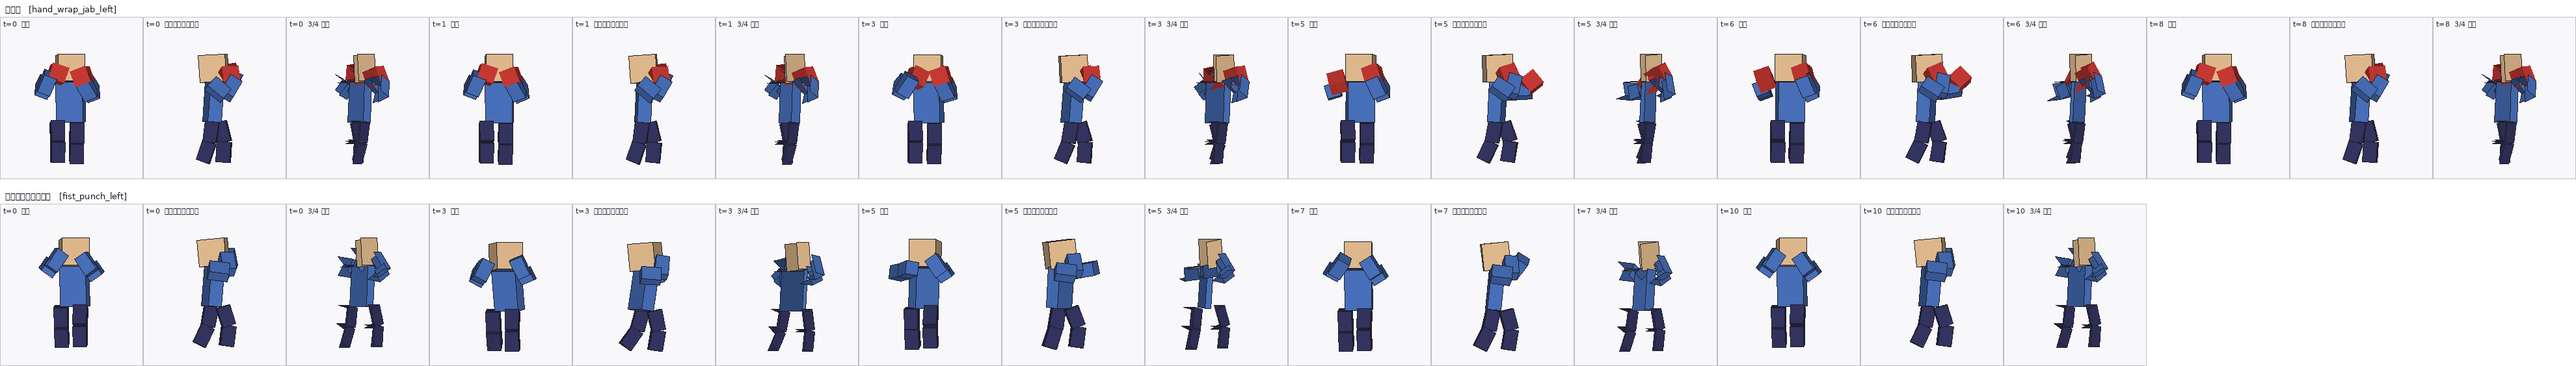
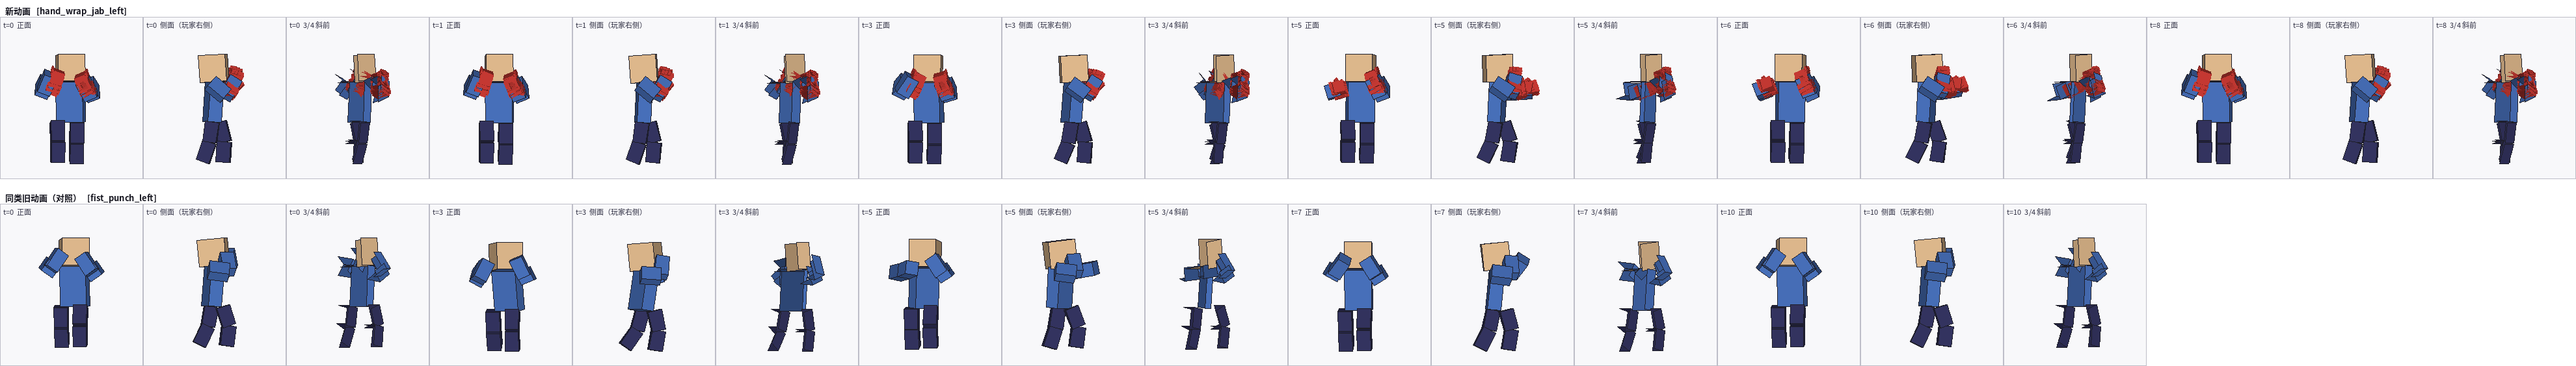
item-use-anim 第 1 批 Round 1 修订：CJK 标签、v2 手持网格、木杖双手握
- render_block_figure：标签改用 NotoSansCJK（Regular / Bold），手持物改用 v2 网格与其 display，删除立方体示意
- gen_wooden_staff_atk：左臂六个关键帧反解到杖身中段偏上（离右手约 0.375 格），关键帧上左手到杖轴距离 ≤1.5px；左臂关节顶在边界，根因在右手握杖位置，待调度决定
- 重出 batch1 接触表，重写 model-review/item-anim-batch1.md（注册表问题记一笔，引用 plan-item-model-channel-v1）
- 合入 origin/main（e6ab6ff72）带进 #2386 v2 模型

diff --git a/client/tools/render_block_figure.py b/client/tools/render_block_figure.py
@@ -59,7 +59,6 @@ CLIENT_ROOT = Path(__file__).resolve().parents[1]
 RESOURCES = CLIENT_ROOT / "src/main/resources/assets/bong"
 ANIM_DIR = RESOURCES / "player_animation"
 ITEM_MODEL_DIR = RESOURCES / "models/item"
-ASSET_CONFIG_DIR = Path(__file__).resolve().parent / "asset_configs"
 
 BLOCK_PX = 16.0
 META_KEYS = frozenset({"tick", "easing", "comment", "turn"})
@@ -142,10 +141,8 @@ class ItemModel:
     """一件手持物的模型来源与显示参数来源。"""
 
     color: Tuple[int, int, int]
-    obj: Optional[str] = None               # 相对 models/item 的 OBJ 路径
-    box_blocks: Optional[float] = None      # 没有可用网格时，用这个边长（方块）的立方体示意
-    display_json: Optional[str] = None      # 物品模型 JSON（取 display 段）
-    override_json: Optional[str] = None     # asset_configs 覆盖
+    obj: str                                # 相对 models/item 的 OBJ 路径
+    display_json: Optional[str] = None      # 物品模型 JSON（取 display 段），没有则用 HANDHELD_DEFAULT
     note: str = ""
 
 
@@ -155,18 +152,20 @@ class ItemModel:
 #   - 骨镐：注册表 pickaxe_bone.obj 只有 16 个顶点（一块薄板），pickaxe_bone_v2 才是镐形。
 # 三处不一致都写进 model-review/item-anim-batch1.md，等调度定。
 ITEMS: Dict[str, ItemModel] = {
-    # 拳套不用 hand_wrap.obj：它是双手整套护甲网格（x 跨 3.75 格、z 跨 6 格），按现有
-    # asset_configs 的 scale 0.35 仍约 2 格长，远超手掌（约 0.25 格），画出来是一团布片，
-    # 判不了握法。这里用拳头尺寸的立方体示意，握点与出拳方向才是要看的东西。
+    # 审图一律用 v2 网格与它自己的 display（与生成器读的 JSON 一致）。注册表与 v2 的不一致
+    # （兵甲手套 objPath=null、木杖 / 骨镐登记的是旧 OBJ 等）留到接线阶段，见
+    # model-review/item-anim-batch1.md「模型台问题」。
     "hand_wrap": ItemModel(
+        obj="hand_wrap_v2/hand_wrap_v2.obj",
+        display_json="hand_wrap_v2/hand_wrap_v2.json",
         color=ITEM_COLORS["cloth"],
-        box_blocks=0.3,
-        note="示意拳面 0.3 格立方体：hand_wrap.obj 按现有配置约 2 格，不可用于判握法（见文档）",
+        note="缠手 v2 网格",
     ),
     "bing_jia_shou_tao": ItemModel(
+        obj="bing_jia_shou_tao_v2/bing_jia_shou_tao_v2.obj",
+        display_json="bing_jia_shou_tao_v2/bing_jia_shou_tao_v2.json",
         color=ITEM_COLORS["iron"],
-        box_blocks=0.34,
-        note="示意铁甲拳面 0.34 格立方体（注册表 objPath=null，实际为原版皮革 2D 贴图）",
+        note="兵甲手套 v2 网格",
     ),
     "pickaxe_bone_v2": ItemModel(
         obj="pickaxe_bone_v2/pickaxe_bone_v2.obj",
@@ -321,31 +320,11 @@ def _obj_triangles(path: Path) -> np.ndarray:
     return arr
 
 
-def _box_triangles(size_blocks: float) -> np.ndarray:
-    """中心在 (0.5, 0.5, 0.5)（方块坐标）的立方体三角形，与 OBJ 的坐标约定一致。"""
-    half = size_blocks / 2
-    corners = _box_corners((0.5 - half,) * 3, (0.5 + half,) * 3)
-    tris = []
-    for face in BOX_FACES:
-        tris.append([corners[face[0]], corners[face[1]], corners[face[2]]])
-        tris.append([corners[face[0]], corners[face[2]], corners[face[3]]])
-    return np.array(tris, dtype=np.float64)
-
-
-def _item_triangles(item: ItemModel) -> np.ndarray:
-    if item.box_blocks is not None:
-        return _box_triangles(item.box_blocks)
-    return _obj_triangles(ITEM_MODEL_DIR / item.obj)
-
-
 def _display_for(item: ItemModel, hand_key: str) -> dict:
     display = {k: list(v) for k, v in HANDHELD_DEFAULT[hand_key].items()}
     if item.display_json:
         src = json.loads((ITEM_MODEL_DIR / item.display_json).read_text(encoding="utf-8"))
         display.update(src["display"][hand_key])
-    if item.override_json:
-        cfg = json.loads((ASSET_CONFIG_DIR / item.override_json).read_text(encoding="utf-8"))
-        display.update(cfg.get(hand_key, {}))
     return display
 
 
@@ -421,7 +400,7 @@ def build_scene(kfs, tick: float, holds: Sequence[Tuple[str, str]]) -> Scene:
         center, bend = elbow_bends[hand_part]
         display = _display_for(item, f"thirdperson_{'righthand' if side == 'right' else 'lefthand'}")
         rot_disp, scale, trans_px = _display_transform(display)
-        verts = _item_triangles(item)
+        verts = _obj_triangles(ITEM_MODEL_DIR / item.obj)
         flat = verts.reshape(-1, 3)
         # 手持物自己的旋转（rightItem 关键帧）插在 display 之后、手持偏移之前。
         spin_part = "rightItem" if side == "right" else "leftItem"
@@ -496,11 +475,14 @@ def render_frame(kfs, tick: float, holds, title: str, font) -> Image.Image:
     return img
 
 
-def _load_font(size: int):
-    try:
-        return ImageFont.truetype("/usr/share/fonts/truetype/dejavu/DejaVuSans.ttf", size)
-    except OSError:
-        return ImageFont.load_default()
+# 标签含中文（正面 / 侧面 / 3/4 斜前 / 新动画 / 同类旧动画），必须用带 CJK 字形的字体，
+# 否则 PIL 默认字体会把中文画成方块。
+CJK_FONT_REGULAR = "/usr/share/fonts/opentype/noto/NotoSansCJK-Regular.ttc"
+CJK_FONT_BOLD = "/usr/share/fonts/opentype/noto/NotoSansCJK-Bold.ttc"
+
+
+def _load_font(size: int, path: str = CJK_FONT_REGULAR):
+    return ImageFont.truetype(path, size)
 
 
 def render_strip(anim_id: str, holds, label: str) -> Image.Image:
@@ -512,7 +494,7 @@ def render_strip(anim_id: str, holds, label: str) -> Image.Image:
     kfs = collect_keyframes(emote)
     ticks = keyframe_ticks(kfs)
     font = _load_font(11)
-    head_font = _load_font(13)
+    head_font = _load_font(13, CJK_FONT_BOLD)
     frames = [render_frame(kfs, t, holds, f"t={t}", font) for t in ticks]
     width = sum(f.width for f in frames)
     header_h = 26

diff --git a/client/tools/gen_wooden_staff_atk.py b/client/tools/gen_wooden_staff_atk.py
@@ -8,8 +8,9 @@
 而非垂直挑刺（那会和骨剑过于相似）。
 
 设计要点：
-  - **双手持杖**：右手主力（近握把端）、左手辅助（远端导向），
-    两臂的 pitch 不同步（右高左低），读作「滑握」动作。
+  - **双手持杖**：右手在近握把端，左手贴在杖身中段偏上（离右手约 6px，即 0.375 格），
+    每个关键帧左手都由 `tools/render_block_figure.py` 的手持链路反解过：左手前臂末端中心
+    与杖身轴线的距离在关键帧上 ≤ 1.5px。左臂 pitch 不与右臂同步，读作「滑握」动作。
   - **借杖长**：身体微侧转、手臂展开幅度大，展现杖身长度带来的宽扫弧。
   - **中速**：11 tick，比兵甲重拳(13)快、比缠手拳(8/9)慢，居中定位。
   - 使用 item_spin 辅助骨：由外部调用方决定，JSON 里只驱动躯干和手臂。
@@ -32,8 +33,8 @@ _GUARD_VALS = dict(
     torso=dict(pitch=+4, yaw=-16),            # 侧身站，右肩朝前
     # 右手近握把端，高位守着（杖头在右肩上方）
     rightArm=dict(pitch=-130, yaw=+10, roll=+14, bend=56, axis=180),
-    # 左手远端导向，中位
-    leftArm=dict(pitch=-70, yaw=+16, roll=-18, bend=72, axis=180),
+    # 左手贴杖身中段偏上（见文件头「双手持杖」），由杖轴反解
+    leftArm=dict(pitch=-165.0, yaw=+55.5, roll=-80.0, bend=20.0, axis=180),
     rightLeg=dict(pitch=+8, yaw=-4, bend=12, z=+0.04),
     leftLeg=dict(pitch=-16, yaw=+5, bend=22, z=-0.10),
 )
@@ -47,7 +48,7 @@ POSE = {
         head=dict(pitch=-2, yaw=+4),
         torso=dict(pitch=+2, yaw=-28),            # 右转加深
         rightArm=dict(pitch=-152, yaw=+14, roll=+18, bend=42, axis=180),
-        leftArm=dict(pitch=-80, yaw=+18, roll=-16, bend=60, axis=180),
+        leftArm=dict(pitch=-173.4, yaw=+49.2, roll=-82.0, bend=20.0, axis=180),
         rightLeg=dict(pitch=+10, yaw=-4, bend=14, z=+0.04),
         leftLeg=dict(pitch=-18, yaw=+4, bend=24, z=-0.11),
     ),
@@ -58,7 +59,7 @@ POSE = {
         head=dict(pitch=+2, yaw=-2),
         torso=dict(pitch=-2, yaw=-36),            # 右转顶点
         rightArm=dict(pitch=-166, yaw=+16, roll=+22, bend=34, axis=180),
-        leftArm=dict(pitch=-88, yaw=+20, roll=-14, bend=54, axis=180),
+        leftArm=dict(pitch=-180.0, yaw=+47.0, roll=-84.4, bend=20.0, axis=180),
         rightLeg=dict(pitch=+10, yaw=-3, bend=12, z=+0.04),
         leftLeg=dict(pitch=-16, yaw=+4, bend=20, z=-0.10),
     ),
@@ -70,8 +71,8 @@ POSE = {
         torso=dict(pitch=+14, yaw=+22),           # 反转总量 58°
         # 右臂随杖头扫到左下，pitch 大幅降低
         rightArm=dict(pitch=-58, yaw=-6, roll=+6, bend=24, axis=180),
-        # 左臂在上方导向（两臂不同步体现「滑握」）
-        leftArm=dict(pitch=-96, yaw=+6, roll=-8, bend=44, axis=180),
+        # 左手随杖身一起扫向左前上，仍在杖身中段偏上
+        leftArm=dict(pitch=-135.2, yaw=+85.5, roll=-71.2, bend=20.0, axis=180),
         rightLeg=dict(pitch=+14, yaw=-3, bend=28, z=+0.06),
         leftLeg=dict(pitch=-22, yaw=+4, bend=36, z=-0.12),
     ),
@@ -82,7 +83,7 @@ POSE = {
         head=dict(pitch=+4, yaw=-11),
         torso=dict(pitch=+15, yaw=+26),
         rightArm=dict(pitch=-42, yaw=-8, roll=+4, bend=28, axis=180),
-        leftArm=dict(pitch=-100, yaw=+4, roll=-6, bend=48, axis=180),
+        leftArm=dict(pitch=-120.5, yaw=+90.0, roll=-60.0, bend=20.0, axis=180),
         rightLeg=dict(pitch=+14, yaw=-3, bend=30, z=+0.06),
         leftLeg=dict(pitch=-22, yaw=+4, bend=38, z=-0.12),
     ),
@@ -91,10 +92,10 @@ POSE = {
 }
 
 DESCRIPTION = (
-    "木杖斜向截击：11 tick。双手持杖（右手近握把端、左手远端导向，两臂不同步体现滑握）。"
+    "木杖斜向截击：11 tick。双手持杖（右手近握把端、左手贴杖身中段偏上，离右手约 0.375 格）。"
     "guard 杖头在右肩上方守势、躯干右侧身 -16° → "
     "windup 右臂上举(-152°)、躯干右转 -28° → apex 杖头到最高点(-166°)、右转顶点 -36° → "
-    "impact 杖从右上扫到左下（右臂 -58°/左臂 -96°，两臂不同步）、躯干反转总量 58° → "
+    "impact 杖从右上扫到左下（右臂 -58°/左臂 -135°，两手都贴杖）、躯干反转总量 58° → "
     "overshoot 过扫 → 收回守势。"
     "识别特征：双手宽开持杖、大弧度扫击路径、两臂高低差异。"
 )

diff --git a/model-review/item-anim-batch1.md b/model-review/item-anim-batch1.md
@@ -1,20 +1,23 @@
-# item-use-anim 第 1 批 Round 1 接触表（重做，2026-10-04）
+# item-use-anim 第 1 批 Round 1 接触表（修订版，2026-10-04）
 
 状态：gate-waiting（Round 2 人工闸门，等调度转用户；本轮未接线、未开 PR）
 执行：claude-anim（Sonnet 5）
 
 ---
 
-## 本轮做了什么
+## 修订记录
 
-- 上一轮（a5ff9e3cd）的帧图是火柴人、手里没有物品，不能交用户。已删：tracked 的 `batch1/<id>.png/` 逐帧目录（`git rm`）、未跟踪的 `*_strip.png/` 目录。
-- 新增 `client/tools/render_block_figure.py`：
-  - 方块人按 MC 1.20.1 玩家模型盒尺寸画头、躯干、上臂/前臂、大腿/小腿；前臂与小腿按 bendy-lib 语义折弯。
-  - 手持物按原版手持链路放进手里（见下节）。
-  - 每个动画一条带图：列为关键帧 tick，行为正面 / 侧面（玩家右侧）/ 3/4 斜前。
-  - 同类旧动画对照在条带下方。
+- 调度审（2b248af86）要求的三处修复已完成：
+  1. 中文标签改用 `/usr/share/fonts/opentype/noto/NotoSansCJK-Regular.ttc`（标题加粗用 Bold），不再是豆腐块。
+  2. 木杖左手关键帧改到杖身中段偏上（双手持杖），生成器与 JSON 一起改，见动画 6。
+  3. 先 `git fetch origin && git merge origin/main`（合并提交 `e6ab6ff72`，带进 #2386 的 v2 模型）；手持物全部改用 v2 网格与它自己的 display，不再用 0.3 格立方体示意。
+- 本轮未改的部分：批次结构、其余 6 条动画的关键帧、骨镐循环、注册表。
+- 上一轮（a5ff9e3cd）的火柴人帧图已删除，见 2b248af86。
+
+## 本轮做了什么（渲染口径）
+
+- `client/tools/render_block_figure.py`：方块人按 MC 1.20.1 玩家模型盒尺寸画头、躯干、上臂/前臂、大腿/小腿；前臂与小腿按 bendy-lib 语义折弯。手持物按原版手持链路放进手里；每条动画一条带图，列为关键帧 tick，行为正面 / 侧面（玩家右侧）/ 3/4 斜前；同类旧动画对照在条带下方。
 - 产物：`model-review/img/item-anim/batch1/<动画 id>.png`（上：新动画；下：同类旧动画），总接触表 `batch1/batch1_contact.png`。
-- **动画本体未改**：7 个 JSON 与生成器与 a5ff9e3cd 相同，本轮只重做渲染与审图。
 
 ### 手持链路（读 1.20.1 字节码确认，不是凭记忆）
 
@@ -35,23 +38,22 @@ PlayerAnimator 的 `rightItem` 插在 display 之后、手持偏移之前（与 
 ## 渲染的近似（看图前必读）
 
 - 手持物随前臂折弯整体刚性转动；原版 bend 只弯前臂网格，手持物不做网格变形。
-- 正交投影，没有光照与 FOV，物品只用面法线做明暗。
+- 正交投影，没有光照与 FOV，物品只用面法线做明暗；手持物颜色刻意避开肤色。
 - 握持是否自然、拳面是否贴手，最终判断仍以 runClient 为准。
-- 拳套手持物用 **0.3 格立方体示意**，不用 `hand_wrap.obj`：该网格按现有 `asset_configs` 的 scale 0.35 仍约 2 格长，远超手掌（约 0.25 格），画出来是一团布片，判不了握法。见下方「模型台问题」第 1 条。
-- 木杖、骨剑、骨镐用 `*_v2` 模型（理由见「模型台问题」）。
+- 手持物一律用 v2 网格与其 `display`（与生成器读取的 JSON 一致）。注册表登记的旧模型与 v2 不一致，见「模型台问题」。
 
 ---
 
 ## 批次概览（tick 与循环均取自 JSON）
 
-| # | 动画 ID | 关键帧 tick | endTick | 循环 | 手持 | 同类旧动画（对照行） |
-|---|---------|-------------|---------|------|------|----------------------|
-| 1 | `hand_wrap_jab_left` | 0,1,3,5,6,8 | 8 | 否 | 双拳示意立方体 | `fist_punch_left` |
-| 2 | `hand_wrap_jab_right` | 0,2,4,6,7,9 | 9 | 否 | 双拳示意立方体 | `fist_punch_right` |
-| 3 | `bing_jia_heavy_left` | 0,2,5,8,9,10,12 | 12 | 否 | 双拳示意立方体（铁色） | `fist_punch_left` |
-| 4 | `bing_jia_heavy_right` | 0,2,6,9,10,11,13 | 13 | 否 | 双拳示意立方体（铁色） | `fist_punch_right` |
+| # | 动画 ID | 关键帧 tick | endTick | 循环 | 手持（v2 网格） | 同类旧动画（对照行） |
+|---|---------|-------------|---------|------|-----------------|----------------------|
+| 1 | `hand_wrap_jab_left` | 0,1,3,5,6,8 | 8 | 否 | 双手缠手 `hand_wrap_v2` | `fist_punch_left` |
+| 2 | `hand_wrap_jab_right` | 0,2,4,6,7,9 | 9 | 否 | 双手缠手 `hand_wrap_v2` | `fist_punch_right` |
+| 3 | `bing_jia_heavy_left` | 0,2,5,8,9,10,12 | 12 | 否 | 双手兵甲 `bing_jia_shou_tao_v2` | `fist_punch_left` |
+| 4 | `bing_jia_heavy_right` | 0,2,6,9,10,11,13 | 13 | 否 | 双手兵甲 `bing_jia_shou_tao_v2` | `fist_punch_right` |
 | 5 | `pickaxe_bone_use` | 0,3,5,6,8 | 8 | **是** | 右手 `pickaxe_bone_v2` | `pickaxe_iron_v2_use`（右手铁镐 v2） |
-| 6 | `wooden_staff_atk` | 0,2,5,8,9,11 | 11 | 否 | 右手 `wooden_staff_v2` | `sword_swing_horiz`（空手） |
+| 6 | `wooden_staff_atk` | 0,2,5,8,9,11 | 11 | 否 | 右手 `wooden_staff_v2`；左手贴杖身 | `sword_swing_horiz`（空手） |
 | 7 | `bone_sword_slash` | 0,2,5,7,8,9 | 9 | 否 | 右手 `bone_sword_v2`（含 rightItem 关键帧） | `iron_sword_v2_use`（右手铁剑 v2） |
 
 ## 设计与复核（逐件）
@@ -62,7 +64,7 @@ PlayerAnimator 的 `rightItem` 插在 display 之后、手持偏移之前（与 
 ### 1. hand_wrap_jab_left（缠手左直拳）
 - 设计：8 tick 快出快收；左拳 impact 时 `leftArm.roll` 从 -20° 翻到 +15°，手腕翻转为主；躯干扭量 30°；腿 pitch ≤ 18°。
 - 与 `fist_punch_left`（10 tick，躯干扭量与出拳幅度更大）的区别：时长更短，靠手腕翻转而非躯干大转。
-- 复核：左拳出拳时右拳护颊可见；拳面在 impact 帧前伸。**设计注释的「肩膀旋转 ≤15°」与实测 30° 不符**，以实测为准，待调度决定是否收紧。
+- 复核：v2 拳套两手都戴着，护颊姿态可见；出拳侧拳头在 impact 帧前伸。**设计注释的「肩膀旋转 ≤15°」与实测 30° 不符**，以实测为准，待调度决定是否收紧。
 
 ### 2. hand_wrap_jab_right（缠手右直拳）
 - 设计：左式的镜像式对位，但躯干扭量 42°，比左式大，两式并不完全对称。
@@ -71,7 +73,7 @@ PlayerAnimator 的 `rightItem` 插在 display 之后、手持偏移之前（与 
 ### 3. bing_jia_heavy_left（兵甲手套左重拳）
 - 设计：12 tick；windup 在 tick 5 把左臂提到头侧（pitch -148°）；impact 在 tick 8 落到 -104°，之后 hold（tick 9）与 overshoot（tick 10）各一帧消化冲击；躯干扭量 54°。
 - 与缠手的区别：时长（12 vs 8）、躯干扭量（54° vs 30°）、有 hold 段。与 `fist_punch_left` 的区别同理，时长与躯干幅度都更大。
-- 复核：拳甲颜色与肤色已分开；重拳落点在前下方。
+- 复核：兵甲网格（铁色）与肤色、袖子蓝分得开；重拳落点在前下方。
 
 ### 4. bing_jia_heavy_right（兵甲手套右重拳）
 - 设计：镜像结构；13 tick；躯干扭量 62°。
@@ -80,13 +82,22 @@ PlayerAnimator 的 `rightItem` 插在 display 之后、手持偏移之前（与 
 ### 5. pickaxe_bone_use（骨镐挥凿，循环）
 - 设计：单手右持，8 tick 一周期，循环闭合（tick 0 与 endTick 同值，已校验）；腕内翻 roll 约 -25°；躯干扭量仅 7°，靠手腕甩而非身体大转。
 - 与 `pickaxe_iron_v2_use`（14 tick，双手，躯干大幅参与）的区别：单手、短周期、几乎不转身。
-- 复核：挥凿轨迹在三视图中可辨；骨镐模型是 `pickaxe_bone_v2` 的镐形（注册表登记的 `pickaxe_bone.obj` 只是 16 顶点薄板，不用于审图）。
-- **未决（Round 2 必须说明）**：本动画是循环（`isLoop=true`）。采集是循环播放，能否直接按采集节拍重复播放 `pickaxe_bone_use`，要先确认服务端能拿到手持工具与采集节拍。本轮不接线，未核实。
+- 复核：挥凿轨迹在三视图中可辨；骨镐用 `pickaxe_bone_v2` 的镐形。
+- **未决（接线阶段核实）**：本动画是循环（`isLoop=true`）。采集是循环播放，能否直接按采集节拍重复播放 `pickaxe_bone_use`，要先确认服务端能拿到手持工具与采集节拍。本轮不接线，未核实。
 
 ### 6. wooden_staff_atk（木杖斜向截击）
-- 设计：双手持杖，11 tick；右臂从右肩高位（pitch -130°）上举到 -166°，再斜扫到左下（-58°）；躯干扭量 62°。
-- 与 `sword_swing_horiz` 的区别：斜向截击、两臂高低不同步（右高左低），非水平横扫。
-- **复核发现问题（需 Round 2 修）**：原版只有右手能持物，杖只挂在右手上。从图上看，**左臂在胸前，左手不在杖身上**（t=0 与 t=2 的左手与杖分离）。双手持杖的握点不成立。修法待定：或让左手贴到杖的挂点轨迹上，或承认这是单手截击。
+- 设计：双手持杖，11 tick；右臂从右肩高位（pitch -130°）上举到 -166°，再斜扫到左下（-58°）；躯干扭量 62°。右手握在杖的近握把端。
+- 左手：按调度要求，左手关键帧改到**杖身中段偏上**（离右手沿杖轴约 6px，即 0.375 格）。
+  - 解法：一次性反解脚本（未入库，在 scratchpad），把左臂 pitch/yaw/roll/bend 坐标下降到使左手前臂末端中心贴到杖轴上。
+  - 结果：关键帧上左手到杖轴的垂直距离最大 **1.49px**；0.25 tick 步长密采样最大 **1.73px**（约 0.1 格）。
+  - 生成器 `tools/gen_wooden_staff_atk.py` 与 JSON 已同步更新，文件头「双手持杖」段写明了这个口径。
+- **代价（已拉到关节边界，需调度看）**：
+  - 六个关键帧（0/2/5/8/9/11）的左臂 `bend` 全部顶在 20° 下限（几乎伸直）；
+  - tick 5 `pitch` 到 -180°，tick 9 `yaw` 到 90°；
+  - `roll` 最大 -84°（前臂明显扭转）。
+- **根因（不在本轮改动范围）**：右手握点在右肩外侧（约 x=-4px、y=-6px），杖身从握点斜向右下前方延伸（轴向约 (-0.29, +0.83, -0.48)）。左手要横跨胸前到身体右侧才够得着杖身。在舒适关节范围（pitch -170°~-20°，yaw/roll ±60°，bend ≥30°）内，误差超过 1.5px，**不可达**。
+  - 要做出自然的双手持杖，需要改右臂姿态或杖的挂点，让杖横过胸前；这是右手关键帧的改动，本轮按调度只改左手，未动。
+  - 原版只有右手能持物，左手在游戏里只是姿态，不挂物品；这里的贴合只在审图里成立，需要调度确认是否接受。
 
 ### 7. bone_sword_slash（骨剑侧弧切）
 - 设计：9 tick；右手单持；剑刃 rightItem 从 +30° 翻到 -60° 再到 -70°，弧切路径从右腰后侧到左前上；躯干扭量 46°。
@@ -95,22 +106,24 @@ PlayerAnimator 的 `rightItem` 插在 display 之后、手持偏移之前（与 
 
 ---
 
-## 模型台问题（需调度/用户拍板，本轮不改）
+## 模型台问题（记一笔，接线阶段再定）
 
-1. **`hand_wrap.obj` 尺寸与配置不匹配**：网格 x 跨 3.75 格、z 跨 6 格，`asset_configs/hand_wrap.json` 的 scale 0.35 仍约 2 格长。拳套在游戏里很可能显得巨大。需要确认是网格导出单位问题还是配置问题。
-2. **`bing_jia_shou_tao` 注册表与注释不一致**：`BongWeaponModelRegistry.java:187-189` 的注释写「借用 hand_wrap.obj」，但 `Entry` 的 `objPath` 是 `null`，实际手持是原版皮革 2D 贴图。兵甲手套目前没有专属模型。
-3. **`bone_sword` 注册表 `objPath=null`**：借原版石剑贴图；`bone_sword_v2` 模型没有接入注册表。本轮审图用 `bone_sword_v2`，与 `bone_sword_slash` 生成器读取的 JSON 一致。
-4. **`wooden_staff.obj` 高 10 格、无 display 缩放配置**：注册表登记的是它，尺寸明显异常；`wooden_staff_v2`（1.76 格）与设计的 1.6m 一致。本轮审图用 v2。
-5. **`pickaxe_bone.obj` 仅 16 顶点薄板**：注册表登记的是它；`pickaxe_bone_v2` 是镐形。本轮审图用 v2。
+按调度意见，注册表与 v2 的不一致本轮不修，统一留到接线阶段，正式通道见骨架 `docs/plans-skeleton/plan-item-model-channel-v1.md`。
 
-第 3~5 条需要决定：注册表是否切到 v2 模型。这会影响接线时的模型 id。
+1. **`hand_wrap.obj` 与现有配置不匹配**：网格 x 跨 3.75 格、z 跨 6 格，`asset_configs/hand_wrap.json` 的 scale 0.35 仍约 2 格长。注册表仍指向它；审图已改用 `hand_wrap_v2`。
+2. **`bing_jia_shou_tao` 注册表与注释不一致**：`BongWeaponModelRegistry.java:187-189` 的注释写「借用 hand_wrap.obj」，但 `Entry` 的 `objPath` 是 `null`，实际手持是原版皮革 2D 贴图。注册表尚未接入 `bing_jia_shou_tao_v2`。
+3. **`bone_sword` 注册表 `objPath=null`**：借原版石剑贴图；`bone_sword_v2` 未接入注册表。
+4. **`wooden_staff.obj` 高 10 格、无 display 缩放配置**：注册表登记的是它，尺寸明显异常；`wooden_staff_v2`（1.76 格）与设计的 1.6m 一致。
+5. **`pickaxe_bone.obj` 仅 16 顶点薄板**：注册表登记的是它；`pickaxe_bone_v2` 是镐形。
+
+第 2~5 条都需要在接线阶段决定注册表是否切到 v2 模型，这会影响接线时的模型 id。
 
 ## 给调度的开放问题（Round 2 前）
 
-- 木杖左手握点（见动画 6）。
-- `pickaxe_bone_use` 循环与采集节拍的关系（见动画 5）。
+- **木杖的双手握持**：左手已贴杖身，但左臂关节被拉到边界，根因在右手握杖的位置（见动画 6）。是否改右臂姿态，还是接受单手截击的口径。
+- `pickaxe_bone_use` 循环与采集节拍的关系（接线阶段核实）。
 - 缠手两式、兵甲两式的躯干幅度是否统一（见动画 2、4）。
-- 模型台问题 1~5 的处理方式。
+- 模型台问题 2~5 的处理方式（接线阶段）。
 
 ---
 
@@ -120,6 +133,7 @@ PlayerAnimator 的 `rightItem` 插在 display 之后、手持偏移之前（与 
 - 没有使用 `body.yaw`，整体旋转走 `torso.yaw`；`body` 轴只有 x/y/z。
 - 腿 pitch 最大 22°（远低于 40° 上限）。
 - `pickaxe_bone_use` 是循环动画，endTick 闭合帧已由 `emit_json` 的 `_check_loop_closure` 校验。
+- 木杖左臂的 `axis` 固定 180°，所有关键帧通过 `assert_joint_fold_is_anatomical`（肘向身前折）。
 - 设计注释中的部分数字与 JSON 不符（如缠手肩扭 ≤15°、兵甲两式 52°/56°、骨镐 12 tick）。以 JSON 为准，本文档只写实测值。
 
 ## 调度审 / 人工反馈
